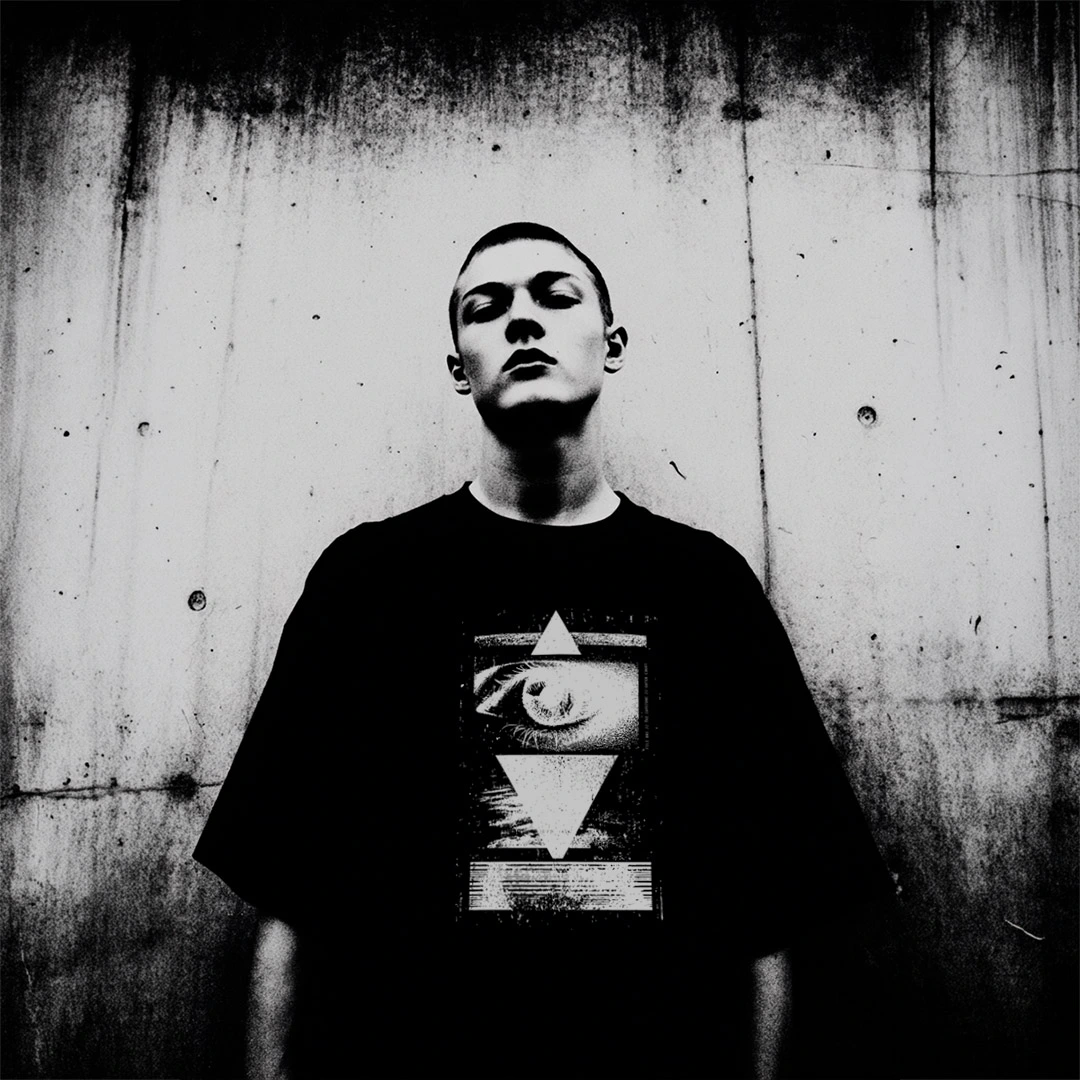
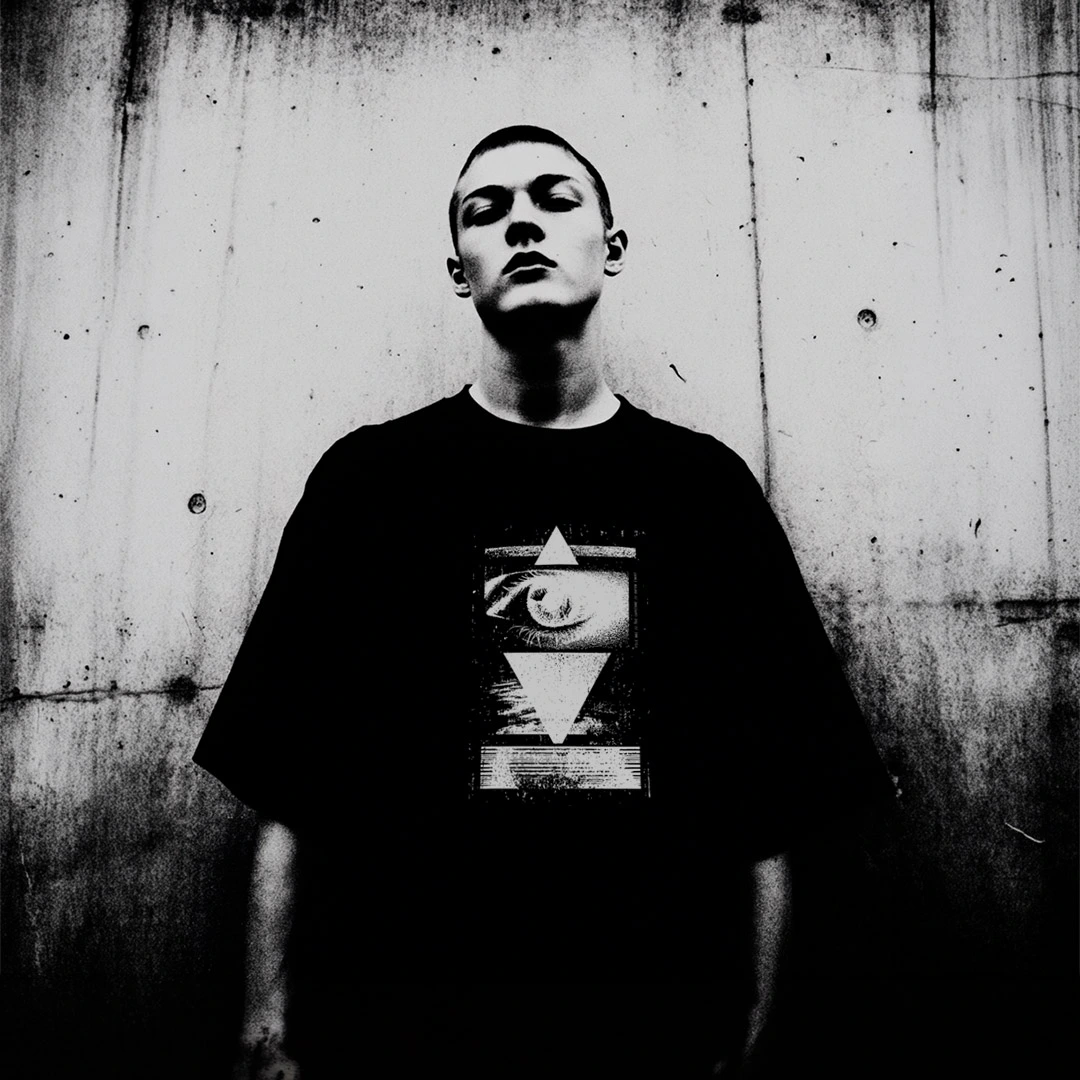
Add files via upload

diff --git a/files.html b/files.html
@@ -172,7 +172,7 @@
 
   /* The garment visual area */
   .file-visual {
-    aspect-ratio: 4/3;
+    aspect-ratio: 1/1;
     position: relative;
     border-bottom: 1px solid rgba(232,224,208,0.06);
     display: flex; align-items: center; justify-content: center;
@@ -764,12 +764,10 @@
       <!-- FILE 001 — ACTIVE -->
       <a href="/001.html" class="file-card tier-1 reveal">
         <div class="file-visual">
-          <img src="/001-worn.webp" alt="File 001 — The Capstone" style="width:100%;height:100%;object-fit:cover;display:block;">
+          <img src="/001-worn.webp" alt="File 001 — The Capstone" style="width:100%;height:100%;object-fit:cover;object-position:top center;display:block;">
           <span class="file-status-badge status-open">Open</span>
           <span class="file-num-badge">FILE 001</span>
-          <div class="file-edition-bar">
-            <div class="file-edition-fill" style="width: 0%"></div>
-          </div>
+          <div class="file-edition-bar"><div class="file-edition-fill" style="width:0%"></div></div>
         </div>
         <div class="file-body">
           <div class="file-ref">FILE 001 // OUTER COURT // DECLASSIFIED</div>
@@ -777,22 +775,10 @@
           <span class="file-decode-link">Decode document → SYM-01 in archive</span>
           <p class="file-desc">The unfinished pyramid — inverted, decoded, documented. The capstone floats because it was never meant to land. The eye is not watching from above. It is the eye of every person who wakes to see the structure for what it is.</p>
           <div class="file-meta">
-            <div class="file-meta-item">
-              <span class="meta-label">Edition</span>
-              <span class="meta-value">500 max</span>
-            </div>
-            <div class="file-meta-item">
-              <span class="meta-label">Remaining</span>
-              <span class="meta-value remaining">500 available</span>
-            </div>
-            <div class="file-meta-item">
-              <span class="meta-label">Classification</span>
-              <span class="meta-value">Outer Court</span>
-            </div>
-            <div class="file-meta-item">
-              <span class="meta-label">Reprint</span>
-              <span class="meta-value">Never</span>
-            </div>
+            <div class="file-meta-item"><span class="meta-label">Edition</span><span class="meta-value">500 max</span></div>
+            <div class="file-meta-item"><span class="meta-label">Remaining</span><span class="meta-value remaining">500 available</span></div>
+            <div class="file-meta-item"><span class="meta-label">Classification</span><span class="meta-value">Outer Court</span></div>
+            <div class="file-meta-item"><span class="meta-label">Reprint</span><span class="meta-value">Never</span></div>
           </div>
           <span class="file-cta">Acquire This File</span>
         </div>
@@ -801,12 +787,10 @@
       <!-- FILE 002 — ACTIVE -->
       <a href="/002.html" class="file-card tier-1 reveal">
         <div class="file-visual">
-          <img src="/002-worn.webp" alt="File 002 — The Signal Tower" style="width:100%;height:100%;object-fit:cover;display:block;">
+          <img src="/002-worn.webp" alt="File 002 — The Signal Tower" style="width:100%;height:100%;object-fit:cover;object-position:top center;display:block;">
           <span class="file-status-badge status-open">Open</span>
           <span class="file-num-badge">FILE 002</span>
-          <div class="file-edition-bar">
-            <div class="file-edition-fill" style="width: 0%"></div>
-          </div>
+          <div class="file-edition-bar"><div class="file-edition-fill" style="width:0%"></div></div>
         </div>
         <div class="file-body">
           <div class="file-ref">FILE 002 // OUTER COURT // DECLASSIFIED</div>
@@ -814,22 +798,10 @@
           <span class="file-decode-link">Decode document → SYM-02 in archive</span>
           <p class="file-desc">Who controls the signal controls the message. The electromagnetic spectrum as broadcast domination — until it isn't. The frequency was always available. It was merely jammed. Broadcast terminated.</p>
           <div class="file-meta">
-            <div class="file-meta-item">
-              <span class="meta-label">Edition</span>
-              <span class="meta-value">500 max</span>
-            </div>
-            <div class="file-meta-item">
-              <span class="meta-label">Remaining</span>
-              <span class="meta-value remaining">500 available</span>
-            </div>
-            <div class="file-meta-item">
-              <span class="meta-label">Classification</span>
-              <span class="meta-value">Outer Court</span>
-            </div>
-            <div class="file-meta-item">
-              <span class="meta-label">Reprint</span>
-              <span class="meta-value">Never</span>
-            </div>
+            <div class="file-meta-item"><span class="meta-label">Edition</span><span class="meta-value">500 max</span></div>
+            <div class="file-meta-item"><span class="meta-label">Remaining</span><span class="meta-value remaining">500 available</span></div>
+            <div class="file-meta-item"><span class="meta-label">Classification</span><span class="meta-value">Outer Court</span></div>
+            <div class="file-meta-item"><span class="meta-label">Reprint</span><span class="meta-value">Never</span></div>
           </div>
           <span class="file-cta">Acquire This File</span>
         </div>
@@ -892,81 +864,45 @@
     <div class="files-grid">
 
       <div class="file-card tier-2 reveal" style="opacity:0.4">
-        <div class="file-visual" style="background:#080806;">
-          <img src="/horse-mark.svg" alt="" style="width:65%;height:65%;object-fit:contain;opacity:0.07;filter:sepia(1) saturate(0.3) brightness(0.8);">
-          <span class="file-status-badge" style="color:var(--gold);border-color:var(--gold)">Pending</span>
-          <span class="file-num-badge" style="opacity:0.3">SYM-05</span>
-        </div>
+        <div class="file-visual" style="background:#080806;"><img src="/horse-mark.svg" alt="" style="width:65%;height:65%;object-fit:contain;opacity:0.07;filter:sepia(1) saturate(0.3) brightness(0.8);"><span class="file-status-badge" style="color:var(--gold);border-color:var(--gold)">Pending</span><span class="file-num-badge" style="opacity:0.3">SYM-05</span></div>
         <div class="file-body">
           <div class="file-ref" style="opacity:0.35">SYM-05 // INNER COURT // PENDING DECLASSIFICATION</div>
           <h2 class="file-name" style="color:var(--gold);opacity:0.55">The Compass &amp; Square — Broken</h2>
           <p class="file-desc" style="opacity:0.35">The working tools of the builder. The G at centre — Geometry, God, or the Great Architect. The tools broken apart and redistributed. The compass now in your hands. The question remains: whose architecture?</p>
-          <div class="file-meta" style="opacity:0.3">
-            <div class="file-meta-item"><span class="meta-label">Edition</span><span class="meta-value">100 max</span></div>
-            <div class="file-meta-item"><span class="meta-label">Access</span><span class="meta-value" style="color:var(--gold)">Inner Court</span></div>
-            <div class="file-meta-item"><span class="meta-label">Print</span><span class="meta-value">Screen print</span></div>
-            <div class="file-meta-item"><span class="meta-label">Reprint</span><span class="meta-value">Never</span></div>
-          </div>
+          <div class="file-meta" style="opacity:0.3"><div class="file-meta-item"><span class="meta-label">Edition</span><span class="meta-value">100 max</span></div><div class="file-meta-item"><span class="meta-label">Access</span><span class="meta-value" style="color:var(--gold)">Inner Court</span></div><div class="file-meta-item"><span class="meta-label">Print</span><span class="meta-value">Screen print</span></div><div class="file-meta-item"><span class="meta-label">Reprint</span><span class="meta-value">Never</span></div></div>
           <span class="file-cta coming-soon">Pending Declassification</span>
         </div>
       </div>
 
       <div class="file-card tier-2 reveal" style="opacity:0.4">
-        <div class="file-visual" style="background:#080806;">
-          <img src="/horse-mark.svg" alt="" style="width:65%;height:65%;object-fit:contain;opacity:0.07;filter:sepia(1) saturate(0.3) brightness(0.8);">
-          <span class="file-status-badge" style="color:var(--gold);border-color:var(--gold)">Pending</span>
-          <span class="file-num-badge" style="opacity:0.3">SYM-06</span>
-        </div>
+        <div class="file-visual" style="background:#080806;"><img src="/horse-mark.svg" alt="" style="width:65%;height:65%;object-fit:contain;opacity:0.07;filter:sepia(1) saturate(0.3) brightness(0.8);"><span class="file-status-badge" style="color:var(--gold);border-color:var(--gold)">Pending</span><span class="file-num-badge" style="opacity:0.3">SYM-06</span></div>
         <div class="file-body">
           <div class="file-ref" style="opacity:0.35">SYM-06 // INNER COURT // PENDING DECLASSIFICATION</div>
           <h2 class="file-name" style="color:var(--gold);opacity:0.55">The Ouroboros — Broken Loop</h2>
           <p class="file-desc" style="opacity:0.35">The eternal cycle. Debt begetting debt, war begetting war. The serpent's jaw open but not consuming. The tail escapes. The loop is not eternal — it is manufactured. Manufactured things can be stopped.</p>
-          <div class="file-meta" style="opacity:0.3">
-            <div class="file-meta-item"><span class="meta-label">Edition</span><span class="meta-value">100 max</span></div>
-            <div class="file-meta-item"><span class="meta-label">Access</span><span class="meta-value" style="color:var(--gold)">Inner Court</span></div>
-            <div class="file-meta-item"><span class="meta-label">Print</span><span class="meta-value">Screen print</span></div>
-            <div class="file-meta-item"><span class="meta-label">Reprint</span><span class="meta-value">Never</span></div>
-          </div>
+          <div class="file-meta" style="opacity:0.3"><div class="file-meta-item"><span class="meta-label">Edition</span><span class="meta-value">100 max</span></div><div class="file-meta-item"><span class="meta-label">Access</span><span class="meta-value" style="color:var(--gold)">Inner Court</span></div><div class="file-meta-item"><span class="meta-label">Print</span><span class="meta-value">Screen print</span></div><div class="file-meta-item"><span class="meta-label">Reprint</span><span class="meta-value">Never</span></div></div>
           <span class="file-cta coming-soon">Pending Declassification</span>
         </div>
       </div>
 
       <div class="file-card tier-2 reveal" style="opacity:0.4">
-        <div class="file-visual" style="background:#080806;">
-          <img src="/horse-mark.svg" alt="" style="width:65%;height:65%;object-fit:contain;opacity:0.07;filter:sepia(1) saturate(0.3) brightness(0.8);">
-          <span class="file-status-badge" style="color:var(--gold);border-color:var(--gold)">Pending</span>
-          <span class="file-num-badge" style="opacity:0.3">SYM-07</span>
-        </div>
+        <div class="file-visual" style="background:#080806;"><img src="/horse-mark.svg" alt="" style="width:65%;height:65%;object-fit:contain;opacity:0.07;filter:sepia(1) saturate(0.3) brightness(0.8);"><span class="file-status-badge" style="color:var(--gold);border-color:var(--gold)">Pending</span><span class="file-num-badge" style="opacity:0.3">SYM-07</span></div>
         <div class="file-body">
           <div class="file-ref" style="opacity:0.35">SYM-07 // INNER COURT // PENDING DECLASSIFICATION</div>
           <h2 class="file-name" style="color:var(--gold);opacity:0.55">The Central Bank Seal</h2>
           <p class="file-desc" style="opacity:0.35">Official, circular, heavy with implied authority. Sutton documented the same financial architecture funding opposing sides of the Cold War. The seal transcends nation. It precedes nation. The internal contradictions, now visible.</p>
-          <div class="file-meta" style="opacity:0.3">
-            <div class="file-meta-item"><span class="meta-label">Edition</span><span class="meta-value">100 max</span></div>
-            <div class="file-meta-item"><span class="meta-label">Access</span><span class="meta-value" style="color:var(--gold)">Inner Court</span></div>
-            <div class="file-meta-item"><span class="meta-label">Print</span><span class="meta-value">Screen print</span></div>
-            <div class="file-meta-item"><span class="meta-label">Reprint</span><span class="meta-value">Never</span></div>
-          </div>
+          <div class="file-meta" style="opacity:0.3"><div class="file-meta-item"><span class="meta-label">Edition</span><span class="meta-value">100 max</span></div><div class="file-meta-item"><span class="meta-label">Access</span><span class="meta-value" style="color:var(--gold)">Inner Court</span></div><div class="file-meta-item"><span class="meta-label">Print</span><span class="meta-value">Screen print</span></div><div class="file-meta-item"><span class="meta-label">Reprint</span><span class="meta-value">Never</span></div></div>
           <span class="file-cta coming-soon">Pending Declassification</span>
         </div>
       </div>
 
       <div class="file-card tier-2 reveal" style="opacity:0.4">
-        <div class="file-visual" style="background:#080806;">
-          <img src="/horse-mark.svg" alt="" style="width:65%;height:65%;object-fit:contain;opacity:0.07;filter:sepia(1) saturate(0.3) brightness(0.8);">
-          <span class="file-status-badge" style="color:var(--gold);border-color:var(--gold)">Pending</span>
-          <span class="file-num-badge" style="opacity:0.3">SYM-08</span>
-        </div>
+        <div class="file-visual" style="background:#080806;"><img src="/horse-mark.svg" alt="" style="width:65%;height:65%;object-fit:contain;opacity:0.07;filter:sepia(1) saturate(0.3) brightness(0.8);"><span class="file-status-badge" style="color:var(--gold);border-color:var(--gold)">Pending</span><span class="file-num-badge" style="opacity:0.3">SYM-08</span></div>
         <div class="file-body">
           <div class="file-ref" style="opacity:0.35">SYM-08 // INNER COURT // PENDING DECLASSIFICATION</div>
           <h2 class="file-name" style="color:var(--gold);opacity:0.55">The Double-Headed Eagle</h2>
           <p class="file-desc" style="opacity:0.35">East and West. Temporal and spiritual. The 33rd degree holds a sword and sceptre — both directions of power, simultaneously held. The inversion: both heads turned inward. The duality collapsed. Sword and sceptre dropped.</p>
-          <div class="file-meta" style="opacity:0.3">
-            <div class="file-meta-item"><span class="meta-label">Edition</span><span class="meta-value">100 max</span></div>
-            <div class="file-meta-item"><span class="meta-label">Access</span><span class="meta-value" style="color:var(--gold)">Inner Court</span></div>
-            <div class="file-meta-item"><span class="meta-label">Print</span><span class="meta-value">Screen print</span></div>
-            <div class="file-meta-item"><span class="meta-label">Reprint</span><span class="meta-value">Never</span></div>
-          </div>
+          <div class="file-meta" style="opacity:0.3"><div class="file-meta-item"><span class="meta-label">Edition</span><span class="meta-value">100 max</span></div><div class="file-meta-item"><span class="meta-label">Access</span><span class="meta-value" style="color:var(--gold)">Inner Court</span></div><div class="file-meta-item"><span class="meta-label">Print</span><span class="meta-value">Screen print</span></div><div class="file-meta-item"><span class="meta-label">Reprint</span><span class="meta-value">Never</span></div></div>
           <span class="file-cta coming-soon">Pending Declassification</span>
         </div>
       </div>
@@ -984,81 +920,45 @@
     <div class="files-grid">
 
       <div class="file-card tier-3 reveal" style="opacity:0.3">
-        <div class="file-visual" style="background:#080806;">
-          <img src="/horse-mark.svg" alt="" style="width:65%;height:65%;object-fit:contain;opacity:0.06;filter:sepia(1) saturate(2) hue-rotate(90deg) brightness(0.6);">
-          <span class="file-status-badge" style="color:var(--green);border-color:var(--green);opacity:0.5">Initiated</span>
-          <span class="file-num-badge" style="opacity:0.2">SYM-09</span>
-        </div>
+        <div class="file-visual" style="background:#080806;"><img src="/horse-mark.svg" alt="" style="width:65%;height:65%;object-fit:contain;opacity:0.06;filter:sepia(1) saturate(2) hue-rotate(90deg) brightness(0.6);"><span class="file-status-badge" style="color:var(--green);border-color:var(--green);opacity:0.5">Initiated</span><span class="file-num-badge" style="opacity:0.2">SYM-09</span></div>
         <div class="file-body">
           <div class="file-ref" style="opacity:0.25">SYM-09 // INITIATED // EYES ONLY</div>
           <h2 class="file-name" style="color:var(--green);opacity:0.4">The Black Sun</h2>
           <p class="file-desc" style="opacity:0.25">Pre-Christian solar cults. Hidden solar worship beneath the surface of Western religion. The sun that never set — it merely changed costume. 33 editions. Invitation only. This file will not be announced publicly.</p>
-          <div class="file-meta" style="opacity:0.2">
-            <div class="file-meta-item"><span class="meta-label">Edition</span><span class="meta-value">33 max</span></div>
-            <div class="file-meta-item"><span class="meta-label">Access</span><span class="meta-value" style="color:var(--green)">Initiated</span></div>
-            <div class="file-meta-item"><span class="meta-label">Method</span><span class="meta-value">Invitation only</span></div>
-            <div class="file-meta-item"><span class="meta-label">Reprint</span><span class="meta-value">Never</span></div>
-          </div>
+          <div class="file-meta" style="opacity:0.2"><div class="file-meta-item"><span class="meta-label">Edition</span><span class="meta-value">33 max</span></div><div class="file-meta-item"><span class="meta-label">Access</span><span class="meta-value" style="color:var(--green)">Initiated</span></div><div class="file-meta-item"><span class="meta-label">Method</span><span class="meta-value">Invitation only</span></div><div class="file-meta-item"><span class="meta-label">Reprint</span><span class="meta-value">Never</span></div></div>
           <span class="file-cta coming-soon" style="color:var(--green);opacity:0.2;border-color:rgba(74,255,145,0.08)">Initiated Access Only</span>
         </div>
       </div>
 
       <div class="file-card tier-3 reveal" style="opacity:0.3">
-        <div class="file-visual" style="background:#080806;">
-          <img src="/horse-mark.svg" alt="" style="width:65%;height:65%;object-fit:contain;opacity:0.06;filter:sepia(1) saturate(2) hue-rotate(90deg) brightness(0.6);">
-          <span class="file-status-badge" style="color:var(--green);border-color:var(--green);opacity:0.5">Initiated</span>
-          <span class="file-num-badge" style="opacity:0.2">SYM-10</span>
-        </div>
+        <div class="file-visual" style="background:#080806;"><img src="/horse-mark.svg" alt="" style="width:65%;height:65%;object-fit:contain;opacity:0.06;filter:sepia(1) saturate(2) hue-rotate(90deg) brightness(0.6);"><span class="file-status-badge" style="color:var(--green);border-color:var(--green);opacity:0.5">Initiated</span><span class="file-num-badge" style="opacity:0.2">SYM-10</span></div>
         <div class="file-body">
           <div class="file-ref" style="opacity:0.25">SYM-10 // INITIATED // EYES ONLY</div>
           <h2 class="file-name" style="color:var(--green);opacity:0.4">The Vesica Piscis</h2>
           <p class="file-desc" style="opacity:0.25">Sacred geometry. The origin of the Christian Ichthys. Portal geometry encoded into cathedral architecture for a thousand years. The intersection is the message. 33 editions. Invitation only.</p>
-          <div class="file-meta" style="opacity:0.2">
-            <div class="file-meta-item"><span class="meta-label">Edition</span><span class="meta-value">33 max</span></div>
-            <div class="file-meta-item"><span class="meta-label">Access</span><span class="meta-value" style="color:var(--green)">Initiated</span></div>
-            <div class="file-meta-item"><span class="meta-label">Method</span><span class="meta-value">Invitation only</span></div>
-            <div class="file-meta-item"><span class="meta-label">Reprint</span><span class="meta-value">Never</span></div>
-          </div>
+          <div class="file-meta" style="opacity:0.2"><div class="file-meta-item"><span class="meta-label">Edition</span><span class="meta-value">33 max</span></div><div class="file-meta-item"><span class="meta-label">Access</span><span class="meta-value" style="color:var(--green)">Initiated</span></div><div class="file-meta-item"><span class="meta-label">Method</span><span class="meta-value">Invitation only</span></div><div class="file-meta-item"><span class="meta-label">Reprint</span><span class="meta-value">Never</span></div></div>
           <span class="file-cta coming-soon" style="color:var(--green);opacity:0.2;border-color:rgba(74,255,145,0.08)">Initiated Access Only</span>
         </div>
       </div>
 
       <div class="file-card tier-3 reveal" style="opacity:0.3">
-        <div class="file-visual" style="background:#080806;">
-          <img src="/horse-mark.svg" alt="" style="width:65%;height:65%;object-fit:contain;opacity:0.06;filter:sepia(1) saturate(2) hue-rotate(90deg) brightness(0.6);">
-          <span class="file-status-badge" style="color:var(--green);border-color:var(--green);opacity:0.5">Initiated</span>
-          <span class="file-num-badge" style="opacity:0.2">SYM-11</span>
-        </div>
+        <div class="file-visual" style="background:#080806;"><img src="/horse-mark.svg" alt="" style="width:65%;height:65%;object-fit:contain;opacity:0.06;filter:sepia(1) saturate(2) hue-rotate(90deg) brightness(0.6);"><span class="file-status-badge" style="color:var(--green);border-color:var(--green);opacity:0.5">Initiated</span><span class="file-num-badge" style="opacity:0.2">SYM-11</span></div>
         <div class="file-body">
           <div class="file-ref" style="opacity:0.25">SYM-11 // INITIATED // EYES ONLY</div>
           <h2 class="file-name" style="color:var(--green);opacity:0.4">The Celestial Clock</h2>
           <p class="file-desc" style="opacity:0.25">Maxwell's astrotheology made precise. The sky as the first scripture. The zodiac as the original calendar of power. The hands arrested at the moment awareness begins. 33 editions. Invitation only.</p>
-          <div class="file-meta" style="opacity:0.2">
-            <div class="file-meta-item"><span class="meta-label">Edition</span><span class="meta-value">33 max</span></div>
-            <div class="file-meta-item"><span class="meta-label">Access</span><span class="meta-value" style="color:var(--green)">Initiated</span></div>
-            <div class="file-meta-item"><span class="meta-label">Method</span><span class="meta-value">Invitation only</span></div>
-            <div class="file-meta-item"><span class="meta-label">Reprint</span><span class="meta-value">Never</span></div>
-          </div>
+          <div class="file-meta" style="opacity:0.2"><div class="file-meta-item"><span class="meta-label">Edition</span><span class="meta-value">33 max</span></div><div class="file-meta-item"><span class="meta-label">Access</span><span class="meta-value" style="color:var(--green)">Initiated</span></div><div class="file-meta-item"><span class="meta-label">Method</span><span class="meta-value">Invitation only</span></div><div class="file-meta-item"><span class="meta-label">Reprint</span><span class="meta-value">Never</span></div></div>
           <span class="file-cta coming-soon" style="color:var(--green);opacity:0.2;border-color:rgba(74,255,145,0.08)">Initiated Access Only</span>
         </div>
       </div>
 
       <div class="file-card tier-3 reveal" style="opacity:0.3">
-        <div class="file-visual" style="background:#080806;">
-          <img src="/horse-mark.svg" alt="" style="width:65%;height:65%;object-fit:contain;opacity:0.06;filter:sepia(1) saturate(2) hue-rotate(90deg) brightness(0.6);">
-          <span class="file-status-badge" style="color:var(--green);border-color:var(--green);opacity:0.5">Initiated</span>
-          <span class="file-num-badge" style="opacity:0.2">SYM-12</span>
-        </div>
+        <div class="file-visual" style="background:#080806;"><img src="/horse-mark.svg" alt="" style="width:65%;height:65%;object-fit:contain;opacity:0.06;filter:sepia(1) saturate(2) hue-rotate(90deg) brightness(0.6);"><span class="file-status-badge" style="color:var(--green);border-color:var(--green);opacity:0.5">Initiated</span><span class="file-num-badge" style="opacity:0.2">SYM-12</span></div>
         <div class="file-body">
           <div class="file-ref" style="opacity:0.25">SYM-12 // INITIATED // EYES ONLY</div>
           <h2 class="file-name" style="color:var(--green);opacity:0.4">The Caduceus — Unbound</h2>
           <p class="file-desc" style="opacity:0.25">Hermes Trismegistus. The messenger of the gods. The serpents unbound from the staff. The wings no longer controlled flight — free flight. 33 editions. Invitation only.</p>
-          <div class="file-meta" style="opacity:0.2">
-            <div class="file-meta-item"><span class="meta-label">Edition</span><span class="meta-value">33 max</span></div>
-            <div class="file-meta-item"><span class="meta-label">Access</span><span class="meta-value" style="color:var(--green)">Initiated</span></div>
-            <div class="file-meta-item"><span class="meta-label">Method</span><span class="meta-value">Invitation only</span></div>
-            <div class="file-meta-item"><span class="meta-label">Reprint</span><span class="meta-value">Never</span></div>
-          </div>
+          <div class="file-meta" style="opacity:0.2"><div class="file-meta-item"><span class="meta-label">Edition</span><span class="meta-value">33 max</span></div><div class="file-meta-item"><span class="meta-label">Access</span><span class="meta-value" style="color:var(--green)">Initiated</span></div><div class="file-meta-item"><span class="meta-label">Method</span><span class="meta-value">Invitation only</span></div><div class="file-meta-item"><span class="meta-label">Reprint</span><span class="meta-value">Never</span></div></div>
           <span class="file-cta coming-soon" style="color:var(--green);opacity:0.2;border-color:rgba(74,255,145,0.08)">Initiated Access Only</span>
         </div>
       </div>
